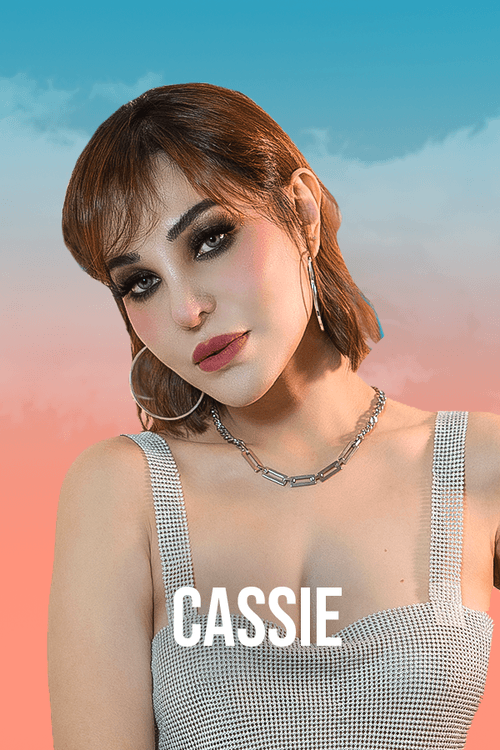
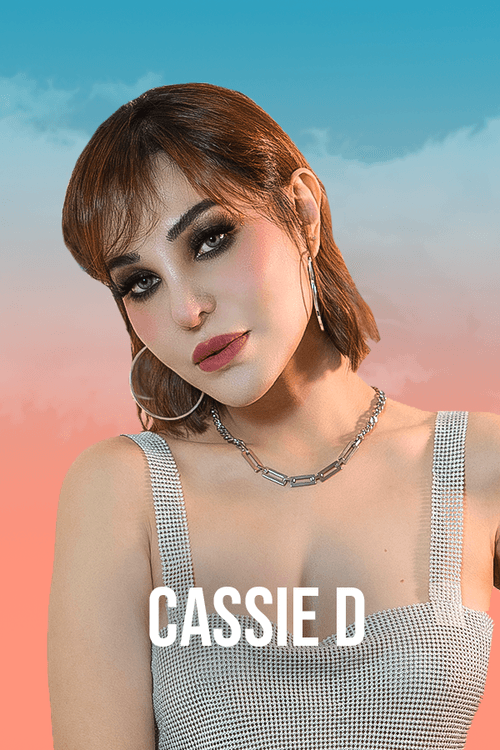
lineup reveal 02/04/24

diff --git a/public/music&artsfestival.html b/public/music&artsfestival.html
@@ -1,4 +1,4 @@
-<!DOCTYPE html><!--  Last Published: Mon Apr 01 2024 02:45:52 GMT+0000 (Coordinated Universal Time)  -->
+<!DOCTYPE html><!--  Last Published: Tue Apr 02 2024 11:01:12 GMT+0000 (Coordinated Universal Time)  -->
 <html data-wf-page="65fc1036d484174479de2dbf" data-wf-site="64d211e93d3d310007a3eb4b">
 <head>
   <meta charset="utf-8">
@@ -289,7 +289,7 @@ j=d.createElement(s),dl=l!='dataLayer'?'&l='+l:'';j.async=true;j.src=
               <div class="slide-content">
                 <h2 class="heading-2 swiper-slide-active"></h2>
               </div>
-              <div class="slide-img-overlay"></div><img loading="lazy" width="300" height="400" alt="" src="images/coming-soon.png" sizes="(max-width: 767px) 180px, (max-width: 991px) 23vw, (max-width: 1919px) 15vw, 16vw" srcset="images/coming-soon-p-500.png 500w, images/coming-soon.png 600w" class="slide-img">
+              <div class="slide-img-overlay"></div><img loading="lazy" width="300" height="400" alt="" src="images/miss-monique.png" sizes="(max-width: 767px) 180px, (max-width: 991px) 23vw, (max-width: 1919px) 15vw, 16vw" srcset="images/miss-monique-p-500.png 500w, images/miss-monique.png 600w" class="slide-img">
             </div>
           </div>
           <div class="swiper-slide swiper-slide-active">
@@ -297,7 +297,7 @@ j=d.createElement(s),dl=l!='dataLayer'?'&l='+l:'';j.async=true;j.src=
               <div class="slide-content">
                 <h2 class="heading-2 swiper-slide-active"></h2>
               </div>
-              <div class="slide-img-overlay"></div><img loading="lazy" width="300" height="400" alt="" src="images/coming-soon.png" sizes="(max-width: 767px) 180px, (max-width: 991px) 23vw, (max-width: 1919px) 15vw, 16vw" srcset="images/coming-soon-p-500.png 500w, images/coming-soon.png 600w" class="slide-img">
+              <div class="slide-img-overlay"></div><img loading="lazy" width="300" height="400" alt="" src="images/avao.png" sizes="(max-width: 767px) 180px, (max-width: 991px) 23vw, (max-width: 1919px) 15vw, 16vw" srcset="images/avao-p-500.png 500w, images/avao.png 600w" class="slide-img">
             </div>
           </div>
           <div class="swiper-slide swiper-slide-active">
@@ -305,7 +305,7 @@ j=d.createElement(s),dl=l!='dataLayer'?'&l='+l:'';j.async=true;j.src=
               <div class="slide-content">
                 <h2 class="heading-2 swiper-slide-active"></h2>
               </div>
-              <div class="slide-img-overlay"></div><img loading="lazy" width="300" height="400" alt="" src="images/coming-soon.png" sizes="(max-width: 767px) 180px, (max-width: 991px) 23vw, (max-width: 1919px) 15vw, 16vw" srcset="images/coming-soon-p-500.png 500w, images/coming-soon.png 600w" class="slide-img">
+              <div class="slide-img-overlay"></div><img loading="lazy" width="300" height="400" alt="" src="images/topic.png" sizes="(max-width: 767px) 180px, (max-width: 991px) 23vw, (max-width: 1919px) 15vw, 16vw" srcset="images/topic-p-500.png 500w, images/topic.png 600w" class="slide-img">
             </div>
           </div>
           <div class="swiper-slide swiper-slide-active">
@@ -313,7 +313,7 @@ j=d.createElement(s),dl=l!='dataLayer'?'&l='+l:'';j.async=true;j.src=
               <div class="slide-content">
                 <h2 class="heading-2 swiper-slide-active"></h2>
               </div>
-              <div class="slide-img-overlay"></div><img loading="lazy" width="300" height="400" alt="" src="images/coming-soon.png" sizes="(max-width: 767px) 180px, (max-width: 991px) 23vw, (max-width: 1919px) 15vw, 16vw" srcset="images/coming-soon-p-500.png 500w, images/coming-soon.png 600w" class="slide-img">
+              <div class="slide-img-overlay"></div><img loading="lazy" width="300" height="400" alt="" src="images/sikk.png" sizes="(max-width: 767px) 180px, (max-width: 991px) 23vw, (max-width: 1919px) 15vw, 16vw" srcset="images/sikk.png 500w, images/sikk.png 600w" class="slide-img">
             </div>
           </div>
           <div class="swiper-slide swiper-slide-active">
@@ -321,7 +321,7 @@ j=d.createElement(s),dl=l!='dataLayer'?'&l='+l:'';j.async=true;j.src=
               <div class="slide-content">
                 <h2 class="heading-2 swiper-slide-active"></h2>
               </div>
-              <div class="slide-img-overlay"></div><img loading="lazy" width="300" height="400" alt="" src="images/coming-soon.png" sizes="(max-width: 767px) 180px, (max-width: 991px) 23vw, (max-width: 1919px) 15vw, 16vw" srcset="images/coming-soon-p-500.png 500w, images/coming-soon.png 600w" class="slide-img">
+              <div class="slide-img-overlay"></div><img loading="lazy" width="300" height="400" alt="" src="images/dolla.png" sizes="(max-width: 767px) 180px, (max-width: 991px) 23vw, (max-width: 1919px) 15vw, 16vw" srcset="images/dolla-p-500.png 500w, images/dolla.png 600w" class="slide-img">
             </div>
           </div>
           <div class="swiper-slide swiper-slide-active">
@@ -329,7 +329,119 @@ j=d.createElement(s),dl=l!='dataLayer'?'&l='+l:'';j.async=true;j.src=
               <div class="slide-content">
                 <h2 class="heading-2 swiper-slide-active"></h2>
               </div>
-              <div class="slide-img-overlay"></div><img loading="lazy" width="300" height="400" alt="" src="images/coming-soon.png" sizes="(max-width: 767px) 180px, (max-width: 991px) 23vw, (max-width: 1919px) 15vw, 16vw" srcset="images/coming-soon-p-500.png 500w, images/coming-soon.png 600w" class="slide-img">
+              <div class="slide-img-overlay"></div><img loading="lazy" width="300" height="400" alt="" src="images/yung-raja.png" sizes="(max-width: 767px) 180px, (max-width: 991px) 23vw, (max-width: 1919px) 15vw, 16vw" srcset="images/yung-raja-p-500.png 500w, images/yung-raja.png 600w" class="slide-img">
+            </div>
+          </div>
+          <div class="swiper-slide swiper-slide-active">
+            <div class="slide">
+              <div class="slide-content">
+                <h2 class="heading-2 swiper-slide-active"></h2>
+              </div>
+              <div class="slide-img-overlay"></div><img loading="lazy" width="300" height="400" alt="" src="images/ismail.png" sizes="(max-width: 767px) 180px, (max-width: 991px) 23vw, (max-width: 1919px) 15vw, 16vw" srcset="images/ismail-p-500.png 500w, images/ismail.png 600w" class="slide-img">
+            </div>
+          </div>
+          <div class="swiper-slide swiper-slide-active">
+            <div class="slide">
+              <div class="slide-content">
+                <h2 class="heading-2 swiper-slide-active"></h2>
+              </div>
+              <div class="slide-img-overlay"></div><img loading="lazy" width="300" height="400" alt="" src="images/jeremy-olander.png" sizes="(max-width: 767px) 180px, (max-width: 991px) 23vw, (max-width: 1919px) 15vw, 16vw" srcset="images/jeremy-olander-p-500.png 500w, images/jeremy-olander.png 600w" class="slide-img">
+            </div>
+          </div>
+          <div class="swiper-slide swiper-slide-active">
+            <div class="slide">
+              <div class="slide-content">
+                <h2 class="heading-2 swiper-slide-active"></h2>
+              </div>
+              <div class="slide-img-overlay"></div><img loading="lazy" width="300" height="400" alt="" src="images/aidaho.png" sizes="(max-width: 767px) 180px, (max-width: 991px) 23vw, (max-width: 1919px) 15vw, 16vw" srcset="images/aidaho-p-500.png 500w, images/aidaho.png 600w" class="slide-img">
+            </div>
+          </div>
+          <div class="swiper-slide swiper-slide-active">
+            <div class="slide">
+              <div class="slide-content">
+                <h2 class="heading-2 swiper-slide-active"></h2>
+              </div>
+              <div class="slide-img-overlay"></div><img loading="lazy" width="300" height="400" alt="" src="images/axel-groove.png" sizes="(max-width: 767px) 180px, (max-width: 991px) 23vw, (max-width: 1919px) 15vw, 16vw" srcset="images/axel-groove-p-500.png 500w, images/axel-groove.png 600w" class="slide-img">
+            </div>
+          </div>
+          <div class="swiper-slide swiper-slide-active">
+            <div class="slide">
+              <div class="slide-content">
+                <h2 class="heading-2 swiper-slide-active"></h2>
+              </div>
+              <div class="slide-img-overlay"></div><img loading="lazy" width="300" height="400" alt="" src="images/badmob.png" sizes="(max-width: 767px) 180px, (max-width: 991px) 23vw, (max-width: 1919px) 15vw, 16vw" srcset="images/badmob-p-500.png 500w, images/badmob.png 600w" class="slide-img">
+            </div>
+          </div>
+          <div class="swiper-slide swiper-slide-active">
+            <div class="slide">
+              <div class="slide-content">
+                <h2 class="heading-2 swiper-slide-active"></h2>
+              </div>
+              <div class="slide-img-overlay"></div><img loading="lazy" width="300" height="400" alt="" src="images/irama-X-NADIA.png" sizes="(max-width: 767px) 180px, (max-width: 991px) 23vw, (max-width: 1919px) 15vw, 16vw" srcset="images/irama-X-NADIA-p-500.png 500w, images/irama-X-NADIA.png 600w" class="slide-img">
+            </div>
+          </div>
+          <div class="swiper-slide swiper-slide-active">
+            <div class="slide">
+              <div class="slide-content">
+                <h2 class="heading-2 swiper-slide-active"></h2>
+              </div>
+              <div class="slide-img-overlay"></div><img loading="lazy" width="300" height="400" alt="" src="images/julia-X-san.png" sizes="(max-width: 767px) 180px, (max-width: 991px) 23vw, (max-width: 1919px) 15vw, 16vw" srcset="images/julia-X-san-p-500.png 500w, images/julia-X-san.png 600w" class="slide-img">
+            </div>
+          </div>
+          <div class="swiper-slide swiper-slide-active">
+            <div class="slide">
+              <div class="slide-content">
+                <h2 class="heading-2 swiper-slide-active"></h2>
+              </div>
+              <div class="slide-img-overlay"></div><img loading="lazy" width="300" height="400" alt="" src="images/jojo-jeff.png" sizes="(max-width: 767px) 180px, (max-width: 991px) 23vw, (max-width: 1919px) 15vw, 16vw" srcset="images/jojo-jeff-p-500.png 500w, images/jojo-jeff.png 600w" class="slide-img">
+            </div>
+          </div>
+          <div class="swiper-slide swiper-slide-active">
+            <div class="slide">
+              <div class="slide-content">
+                <h2 class="heading-2 swiper-slide-active"></h2>
+              </div>
+              <div class="slide-img-overlay"></div><img loading="lazy" width="300" height="400" alt="" src="images/naufal-roshan.png" sizes="(max-width: 767px) 180px, (max-width: 991px) 23vw, (max-width: 1919px) 15vw, 16vw" srcset="images/naufal-roshan-p-500.png 500w, images/naufal-roshan.png 600w" class="slide-img">
+            </div>
+          </div>
+          <div class="swiper-slide swiper-slide-active">
+            <div class="slide">
+              <div class="slide-content">
+                <h2 class="heading-2 swiper-slide-active"></h2>
+              </div>
+              <div class="slide-img-overlay"></div><img loading="lazy" width="300" height="400" alt="" src="images/bate.png" sizes="(max-width: 767px) 180px, (max-width: 991px) 23vw, (max-width: 1919px) 15vw, 16vw" srcset="images/bate-p-500.png 500w, images/bate.png 600w" class="slide-img">
+            </div>
+          </div>
+          <div class="swiper-slide swiper-slide-active">
+            <div class="slide">
+              <div class="slide-content">
+                <h2 class="heading-2 swiper-slide-active"></h2>
+              </div>
+              <div class="slide-img-overlay"></div><img loading="lazy" width="300" height="400" alt="" src="images/Chukiess-Whackboi.png" sizes="(max-width: 767px) 180px, (max-width: 991px) 23vw, (max-width: 1919px) 15vw, 16vw" srcset="images/Chukiess-Whackboi-p-500.png 500w, images/Chukiess-Whackboi.png 600w" class="slide-img">
+            </div>
+          </div>
+          <div class="swiper-slide swiper-slide-active">
+            <div class="slide">
+              <div class="slide-content">
+                <h2 class="heading-2 swiper-slide-active"></h2>
+              </div>
+              <div class="slide-img-overlay"></div><img loading="lazy" width="300" height="400" alt="" src="images/cassie.png" sizes="(max-width: 767px) 180px, (max-width: 991px) 23vw, (max-width: 1919px) 15vw, 16vw" srcset="images/cassie-p-500.png 500w, images/cassie.png 600w" class="slide-img">
+            </div>
+          </div>
+          <div class="swiper-slide swiper-slide-active">
+            <div class="slide">
+              <div class="slide-content">
+                <h2 class="heading-2 swiper-slide-active"></h2>
+              </div>
+              <div class="slide-img-overlay"></div><img loading="lazy" width="300" height="400" alt="" src="images/mister-ariffin.png" sizes="(max-width: 767px) 180px, (max-width: 991px) 23vw, (max-width: 1919px) 15vw, 16vw" srcset="images/mister-ariffin-p-500.png 500w, images/mister-ariffin.png 600w" class="slide-img">
+            </div>
+          </div>
+          <div class="swiper-slide swiper-slide-active">
+            <div class="slide">
+              <div class="slide-content">
+                <h2 class="heading-2 swiper-slide-active"></h2>
+              </div>
+              <div class="slide-img-overlay"></div><img loading="lazy" width="300" height="400" alt="" src="images/nahsyk.png" sizes="(max-width: 767px) 180px, (max-width: 991px) 23vw, (max-width: 1919px) 15vw, 16vw" srcset="images/nahsyk-p-500.png 500w, images/nahsyk.png 600w" class="slide-img">
             </div>
           </div>
         </div>
@@ -825,7 +937,7 @@ j=d.createElement(s),dl=l!='dataLayer'?'&l='+l:'';j.async=true;j.src=
           </div>
         </div>
       </div>
-      <div class="div-block-24"><img src="images/layout-with-legend-1-min.png" loading="lazy" sizes="(max-width: 479px) 90vw, (max-width: 767px) 91vw, (max-width: 991px) 700px, (max-width: 1919px) 71vw, 529.1000366210938px" srcset="images/layout-with-legend-1-min-p-500.png 500w, images/layout-with-legend-1-min-p-800.png 800w, images/layout-with-legend-1-min-p-1080.png 1080w, images/layout-with-legend-1-min-p-1600.png 1600w, images/layout-with-legend-1-min.png 2031w" alt="" class="image-23 no-padding margin"></div>
+      <div class="div-block-24"><img src="images/layout-with-legend.png" loading="lazy" sizes="(max-width: 479px) 90vw, (max-width: 767px) 91vw, (max-width: 991px) 700px, (max-width: 1919px) 71vw, 100vw" srcset="images/layout-with-legend-p-500.png 500w, images/layout-with-legend-p-800.png 800w, images/layout-with-legend-p-1080.png 1080w, images/layout-with-legend-p-1600.png 1600w, images/layout-with-legend-p-2000.png 2000w, images/layout-with-legend.png 2031w" alt="" class="image-23 no-padding margin"></div>
       <div class="text-block-5">For illustration purposes only. Layout is subject to change and are not drawn to scale.</div>
     </div>
   </div>
@@ -970,7 +1082,7 @@ box-shadow: 0px 12px 16px -4px rgba(281, 92, 58, 0.08), 0px 4px 6px -2px rgba(28
           </div>
         </div>
       </div>
-    </div><img src="images/horizontal-sponsor-logo-line-Final.svg" loading="lazy" alt="" class="image-18 hide"><img src="images/vertical-sponsor-logo-line-Final.svg" loading="lazy" alt="" class="sponsor-mobile hide">
+    </div><img src="images/PF-horizontal_sponsors-logo_WHITE.png" loading="lazy" sizes="(max-width: 1919px) 100vw, 1200px" srcset="images/PF-horizontal_sponsors-logo_WHITE-p-500.png 500w, images/PF-horizontal_sponsors-logo_WHITE-p-800.png 800w, images/PF-horizontal_sponsors-logo_WHITE-p-1080.png 1080w, images/PF-horizontal_sponsors-logo_WHITE-p-1600.png 1600w, images/PF-horizontal_sponsors-logo_WHITE-p-2000.png 2000w, images/PF-horizontal_sponsors-logo_WHITE-p-2600.png 2600w, images/PF-horizontal_sponsors-logo_WHITE-p-3200.png 3200w, images/PF-horizontal_sponsors-logo_WHITE.png 4764w" alt="" class="image-18"><img src="images/PF-vertical_sponsors-logo_WHITE.png" loading="lazy" sizes="100vw" srcset="images/PF-vertical_sponsors-logo_WHITE-p-500.png 500w, images/PF-vertical_sponsors-logo_WHITE-p-800.png 800w, images/PF-vertical_sponsors-logo_WHITE-p-1080.png 1080w, images/PF-vertical_sponsors-logo_WHITE-p-1600.png 1600w, images/PF-vertical_sponsors-logo_WHITE-p-2000.png 2000w, images/PF-vertical_sponsors-logo_WHITE-p-2600.png 2600w, images/PF-vertical_sponsors-logo_WHITE-p-3200.png 3200w, images/PF-vertical_sponsors-logo_WHITE.png 3651w" alt="" class="sponsor-mobile">
   </div>
   <div class="container-13 display">
     <div class="owl-carousel">

diff --git a/app/page.js b/app/page.js
@@ -49,19 +49,12 @@ function closePopup() {
  <div className='hidden md:block'>
  <div ref={popupOverlayRef} class="popup-overlay ">
     <div ref={popupContainerRef}  class="popup-container_main flex flex-col">
-      <div class="popup-card_main self-center w-[80%] flex mt-6">
-       <a href='/music&artsfestival'> <img  src='popup_desktop_new_1.png' className='' alt='img'/></a>
-       {/* <img onClick={()=>{closePopup()}} id="close-popup_main" src='close_icon.svg' alt="close" /> */}
-       <img onClick={()=>{closePopup()}} className='w-[30px] h-[30px] p-2 bg-[#F33288] rounded cursor-pointer'  src='close.png' alt="close" />
-
-       {/* <button }  className='' id="close-popup_mai" ><img src='close_icon.svg' alt="close" /> </button> */}
+      <div class="popup-card_main flex flex-col self-center w-[40%] flex mt-6">
+      <img onClick={()=>{closePopup()}} className='w-[30px]  h-[30px] p-2 bg-[#F33288] rounded self-end cursor-pointer'  src='close.png' alt="close" />
+       <a href='/music&artsfestival'> <img  src='popup_vertical.jpg' className='' alt='img'/></a>
+     
       </div>
-      {/* <div class="popup-card_main_mob md:hidden mt-6">
-    
-    <Link href='/countdown.html'> <img  src='/popup_mob.jpg' className=' object-none' alt='img'/></Link>
-
-    <button onClick={()=>{closePopup()}} id="close-popup_main" >X</button>
-   </div> */}
+     
     </div>
   </div>
   </div>
@@ -77,7 +70,7 @@ function closePopup() {
     </div>
       <div class="popup-card_main  ">
     
-       <a href='/music&artsfestival'> <img  src='popup_mob_new_1.png' className='object-cover' alt='img'/></a>
+       <a href='/music&artsfestival'> <img  src='popup_vertical.jpg' className='object-cover' alt='img'/></a>
 
       </div>
      

diff --git a/public/css/pinkfish-countdown.css b/public/css/pinkfish-countdown.css
@@ -4452,6 +4452,7 @@ strong {
 }
 
 .image-18 {
+  width: 100%;
   max-width: 1200px;
   padding: 100px 60px;
 }
@@ -7993,10 +7994,12 @@ strong {
   }
 
   .sponsor-mobile {
-    max-width: 83%;
+    max-width: 80%;
+    margin-left: 10px;
+    margin-right: 10px;
     padding-bottom: 80px;
-    padding-left: 30px;
-    padding-right: 30px;
+    padding-left: 0;
+    padding-right: 0;
     display: block;
   }
 

diff --git a/public/countdown.html b/public/countdown.html
@@ -1,4 +1,4 @@
-<!DOCTYPE html><!--  Last Published: Mon Apr 01 2024 02:45:52 GMT+0000 (Coordinated Universal Time)  -->
+<!DOCTYPE html><!--  Last Published: Tue Apr 02 2024 11:01:12 GMT+0000 (Coordinated Universal Time)  -->
 <html data-wf-page="65fc1036d484174479de2e1c" data-wf-site="64d211e93d3d310007a3eb4b">
 <head>
   <meta charset="utf-8">

diff --git a/public/detail_gallery-bar-home.html b/public/detail_gallery-bar-home.html
@@ -1,4 +1,4 @@
-<!DOCTYPE html><!--  Last Published: Mon Apr 01 2024 02:45:52 GMT+0000 (Coordinated Universal Time)  -->
+<!DOCTYPE html><!--  Last Published: Tue Apr 02 2024 11:01:12 GMT+0000 (Coordinated Universal Time)  -->
 <html data-wf-page="65fc1036d484174479de2de4" data-wf-site="64d211e93d3d310007a3eb4b">
 <head>
   <meta charset="utf-8">

diff --git a/public/detail_past-events.html b/public/detail_past-events.html
@@ -1,4 +1,4 @@
-<!DOCTYPE html><!--  Last Published: Mon Apr 01 2024 02:45:52 GMT+0000 (Coordinated Universal Time)  -->
+<!DOCTYPE html><!--  Last Published: Tue Apr 02 2024 11:01:12 GMT+0000 (Coordinated Universal Time)  -->
 <html data-wf-page="65fc1036d484174479de2e03" data-wf-site="64d211e93d3d310007a3eb4b">
 <head>
   <meta charset="utf-8">

diff --git a/public/detail_whats-new.html b/public/detail_whats-new.html
@@ -1,4 +1,4 @@
-<!DOCTYPE html><!--  Last Published: Mon Apr 01 2024 02:45:52 GMT+0000 (Coordinated Universal Time)  -->
+<!DOCTYPE html><!--  Last Published: Tue Apr 02 2024 11:01:12 GMT+0000 (Coordinated Universal Time)  -->
 <html data-wf-page="65fc1036d484174479de2e04" data-wf-site="64d211e93d3d310007a3eb4b">
 <head>
   <meta charset="utf-8">

diff --git a/public/faq.html b/public/faq.html
@@ -1,4 +1,4 @@
-<!DOCTYPE html><!--  Last Published: Mon Apr 01 2024 02:45:52 GMT+0000 (Coordinated Universal Time)  -->
+<!DOCTYPE html><!--  Last Published: Tue Apr 02 2024 11:01:12 GMT+0000 (Coordinated Universal Time)  -->
 <html data-wf-page="65fc1036d484174479de2e1a" data-wf-site="64d211e93d3d310007a3eb4b">
 <head>
   <meta charset="utf-8">

diff --git a/public/home---pfc-2023.html b/public/home---pfc-2023.html
@@ -1,4 +1,4 @@
-<!DOCTYPE html><!--  Last Published: Mon Apr 01 2024 02:45:52 GMT+0000 (Coordinated Universal Time)  -->
+<!DOCTYPE html><!--  Last Published: Tue Apr 02 2024 11:01:12 GMT+0000 (Coordinated Universal Time)  -->
 <html data-wf-page="65fc1036d484174479de2e1b" data-wf-site="64d211e93d3d310007a3eb4b">
 <head>
   <meta charset="utf-8">

diff --git a/public/terms-condition.html b/public/terms-condition.html
@@ -1,4 +1,4 @@
-<!DOCTYPE html><!--  Last Published: Mon Apr 01 2024 02:45:52 GMT+0000 (Coordinated Universal Time)  -->
+<!DOCTYPE html><!--  Last Published: Tue Apr 02 2024 11:01:12 GMT+0000 (Coordinated Universal Time)  -->
 <html data-wf-page="65fc1036d484174479de2e22" data-wf-site="64d211e93d3d310007a3eb4b">
 <head>
   <meta charset="utf-8">
